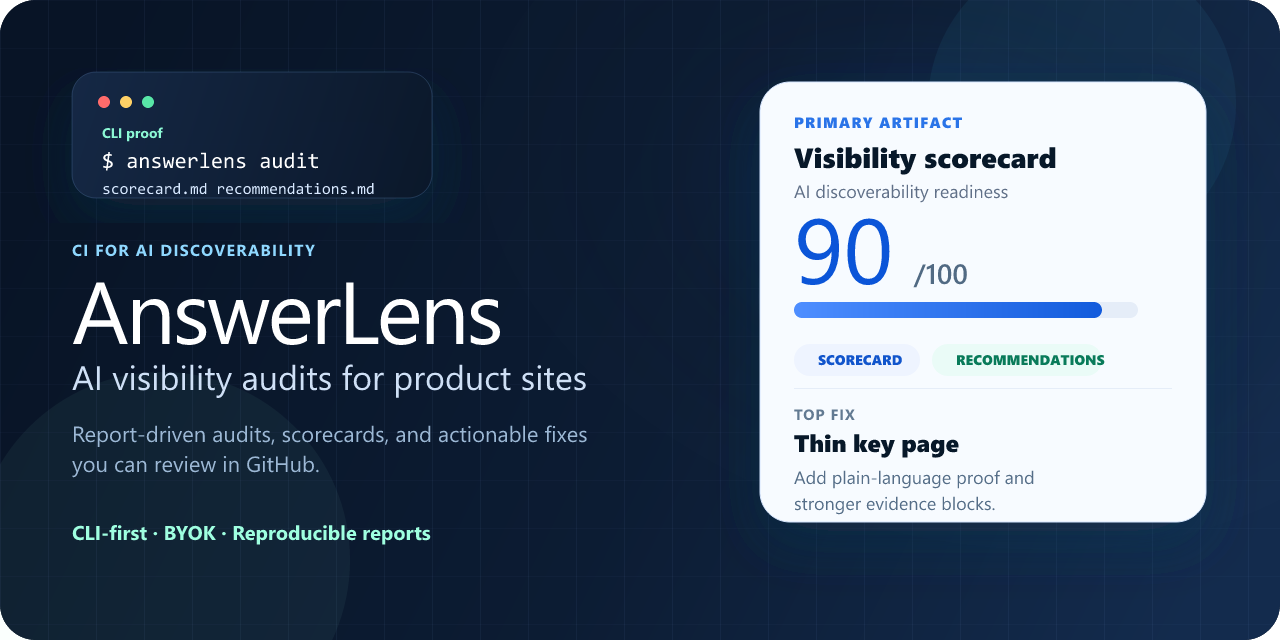
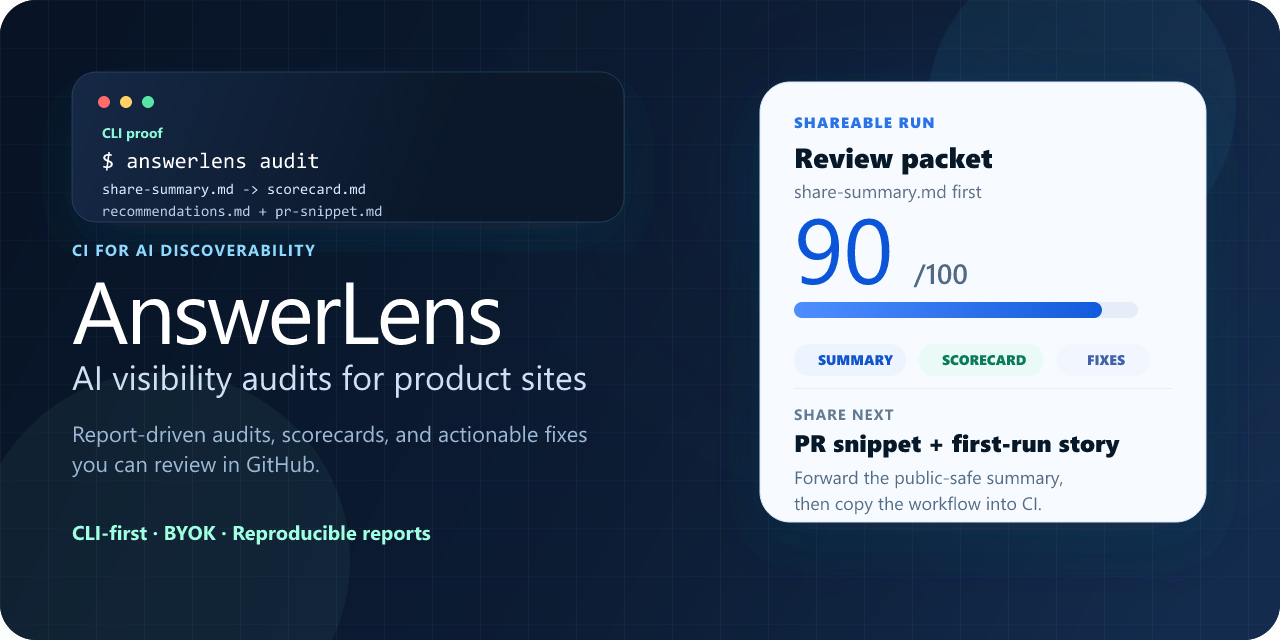
Align visual assets with share packet (#106)

diff --git a/scripts/distribution/public-surface-check.ts b/scripts/distribution/public-surface-check.ts
@@ -124,6 +124,21 @@ const SHARE_LAYER_PROPAGATION_SURFACES = [
   }
 ];
 
+const VISUAL_SHARE_PACKET_SURFACES = [
+  {
+    path: "assets/readme-cover.svg",
+    snippets: ["Review packet", "share-summary.md", "scorecard.md", "recommendations.md"]
+  },
+  {
+    path: "assets/readme-artifacts-preview.svg",
+    snippets: ["share-summary.md", "scorecard.md", "recommendations.md", "pr-snippet.md", "Show and tell", "raw/** stays private"]
+  },
+  {
+    path: "assets/social-preview.svg",
+    snippets: ["Review packet", "share-summary.md", "scorecard.md", "recommendations.md", "pr-snippet.md", "first-run story"]
+  }
+];
+
 const STABLE_RELEASE_SURFACES: Array<{ path: string; snippets: (stableTag: string) => string[] }> = [
   {
     path: ".github/workflows/release-distribution.yml",
@@ -194,6 +209,7 @@ export async function runPublicSurfaceCheck(options: PublicSurfaceCheckOptions =
   await checkFirstRunStoryBoundary(rootDir, findings);
   await checkFirstRunDiscussionRouting(rootDir, findings);
   await checkShareLayerPropagationBoundary(rootDir, findings);
+  await checkVisualSharePacketBoundary(rootDir, findings);
   await checkStarterAdopterKitBoundary(rootDir, findings);
   await checkReleasePagesRefresh(rootDir, findings);
   await checkPagesPostdeploySmoke(rootDir, findings);
@@ -553,6 +569,43 @@ async function checkShareLayerPropagationBoundary(rootDir: string, findings: Fin
           message: `Generated report sharing surfaces must include the first-run invitation and public sharing boundary: ${snippet}`
         });
       }
+    }
+  }
+}
+
+async function checkVisualSharePacketBoundary(rootDir: string, findings: Finding[]): Promise<void> {
+  for (const surface of VISUAL_SHARE_PACKET_SURFACES) {
+    let text: string;
+    try {
+      text = await readFile(path.join(rootDir, surface.path), "utf8");
+    } catch (error) {
+      findings.push({
+        ruleId: "visual-share-packet-boundary",
+        path: surface.path,
+        message: `Unable to read public visual share-packet surface: ${error instanceof Error ? error.message : String(error)}`
+      });
+      continue;
+    }
+
+    for (const snippet of surface.snippets) {
+      if (!text.includes(snippet)) {
+        findings.push({
+          ruleId: "visual-share-packet-boundary",
+          path: surface.path,
+          message: `Public visual assets must show the share-summary-first review packet: ${snippet}`
+        });
+      }
+    }
+
+    const share = text.indexOf("share-summary.md");
+    const scorecard = text.indexOf("scorecard.md");
+    const recommendations = text.indexOf("recommendations.md");
+    if (share === -1 || scorecard === -1 || recommendations === -1 || !(share < scorecard && scorecard < recommendations)) {
+      findings.push({
+        ruleId: "visual-share-packet-boundary",
+        path: surface.path,
+        message: "Public visual assets must keep the artifact order: share-summary.md, scorecard.md, recommendations.md."
+      });
     }
   }
 }

diff --git a/scripts/distribution/public-surface-check.test.ts b/scripts/distribution/public-surface-check.test.ts
@@ -553,6 +553,16 @@ test("public-surface-check rejects starter packet preview drift", async () => {
   assert.ok(ruleIds.includes("starter-adopter-kit-boundary"));
 });
 
+test("public-surface-check rejects visual assets without a share-summary-first packet", async () => {
+  const rootDir = await createPublicSurfaceFixture();
+  await writeFixtureFile(rootDir, "assets/social-preview.svg", "<svg><text>scorecard.md recommendations.md</text></svg>\n");
+
+  const findings = await runPublicSurfaceCheck({ rootDir });
+  const ruleIds = findings.map((finding) => finding.ruleId);
+
+  assert.ok(ruleIds.includes("visual-share-packet-boundary"));
+});
+
 test("public-surface-check rejects Action docs without first-CI PR packet boundaries", async () => {
   const rootDir = await createPublicSurfaceFixture();
   await writeFixtureFile(
@@ -997,6 +1007,9 @@ async function createPublicSurfaceFixture(): Promise<string> {
     ].join("\n")
   );
   await writeFixtureFile(rootDir, "assets/starter-packet-preview.svg", starterPacketPreviewSvg());
+  await writeFixtureFile(rootDir, "assets/readme-cover.svg", visualSharePacketSvg());
+  await writeFixtureFile(rootDir, "assets/readme-artifacts-preview.svg", visualSharePacketSvg());
+  await writeFixtureFile(rootDir, "assets/social-preview.svg", visualSharePacketSvg());
   await writeFixtureFile(rootDir, "scripts/distribution/seo-check.ts", `const FALLBACK_LATEST_RELEASE = "${STABLE_TAG}";\n`);
   await writeFixtureFile(rootDir, "scripts/distribution/site-seo.ts", `const releaseCopy = { "${STABLE_TAG}": "Stable release" };\n`);
   await writeFixtureFile(
@@ -1121,6 +1134,22 @@ function starterPacketPreviewSvg(): string {
     "<text>raw/** is excluded by default</text>",
     "<text>No consumer AI UI scraping</text>",
     "<text>No ranking or answer-placement guarantee</text>",
+    "</svg>"
+  ].join("\n");
+}
+
+function visualSharePacketSvg(): string {
+  return [
+    "<svg>",
+    "<title>AnswerLens visual share packet</title>",
+    "<text>Review packet</text>",
+    "<text>share-summary.md</text>",
+    "<text>scorecard.md</text>",
+    "<text>recommendations.md</text>",
+    "<text>pr-snippet.md</text>",
+    "<text>Show and tell</text>",
+    "<text>first-run story</text>",
+    "<text>raw/** stays private</text>",
     "</svg>"
   ].join("\n");
 }

diff --git a/packages/report/src/index.test.ts b/packages/report/src/index.test.ts
@@ -331,8 +331,13 @@ test("report renderers expose expected audit and eval sections", async () => {
   assert.match(gitignore, /^seofull\.md$/m);
   assert.match(coverSvg, /<svg[^>]+1600[^>]+840/);
   assert.match(coverSvg, /AnswerLens/);
+  assert.match(coverSvg, /Review packet/);
+  assert.match(coverSvg, /share-summary\.md[\s\S]*scorecard\.md[\s\S]*recommendations\.md/);
   assert.match(scorecardPreviewSvg, /Scorecard preview/);
   assert.match(artifactPreviewSvg, /Artifact preview/);
+  assert.match(artifactPreviewSvg, /share-summary\.md[\s\S]*scorecard\.md[\s\S]*recommendations\.md/);
+  assert.match(artifactPreviewSvg, /pr-snippet\.md/);
+  assert.match(artifactPreviewSvg, /Show and tell/);
   assert.match(showcaseSvg, /Before and after showcase/);
   assert.ok(normalizedPages.length > 0);
   assert.ok(normalizedPages.some((page) => (page.internalLinkRecords ?? []).length > 0));

diff --git a/scripts/distribution/build-social-preview.test.ts b/scripts/distribution/build-social-preview.test.ts
@@ -8,6 +8,12 @@ import { buildSocialPreview } from "./build-social-preview.ts";
 test("build-social-preview renders a 1280x640 PNG", async () => {
   const outDir = await mkdtemp(path.join(os.tmpdir(), "answerlens-social-preview-"));
   const outputPath = path.join(outDir, "social-preview.png");
+  const sourceSvg = await readFile(path.resolve("assets/social-preview.svg"), "utf8");
+
+  assert.match(sourceSvg, /Review packet/);
+  assert.match(sourceSvg, /share-summary\.md[\s\S]*scorecard\.md[\s\S]*recommendations\.md/);
+  assert.match(sourceSvg, /pr-snippet\.md/);
+  assert.match(sourceSvg, /first-run story/);
 
   await buildSocialPreview({ outputPath });
 
